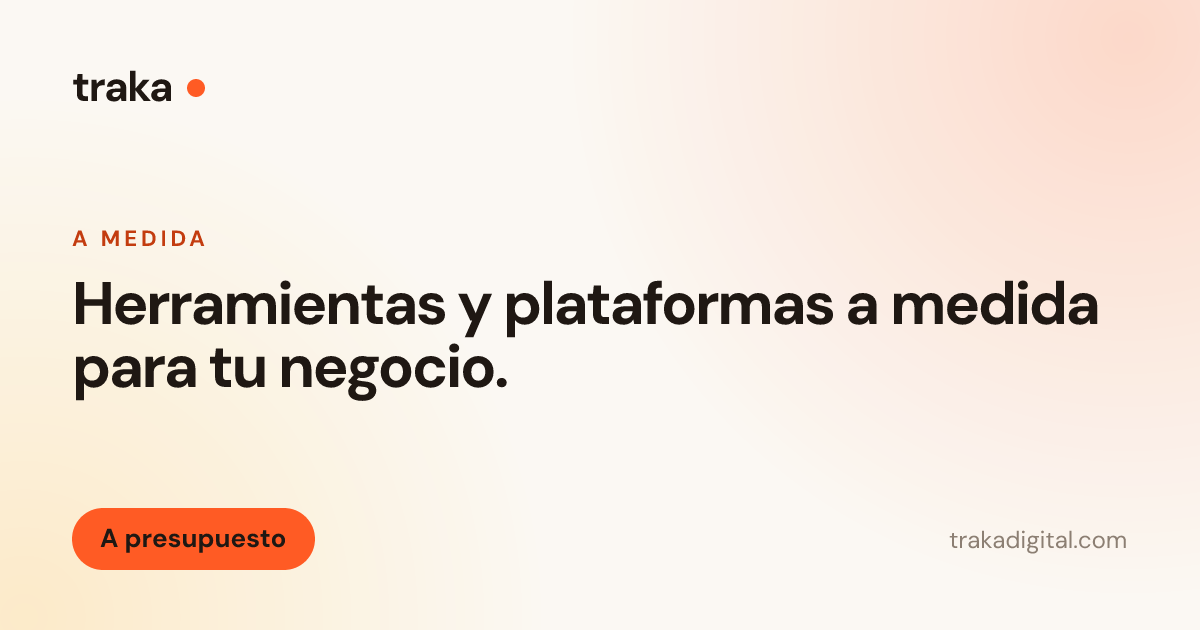
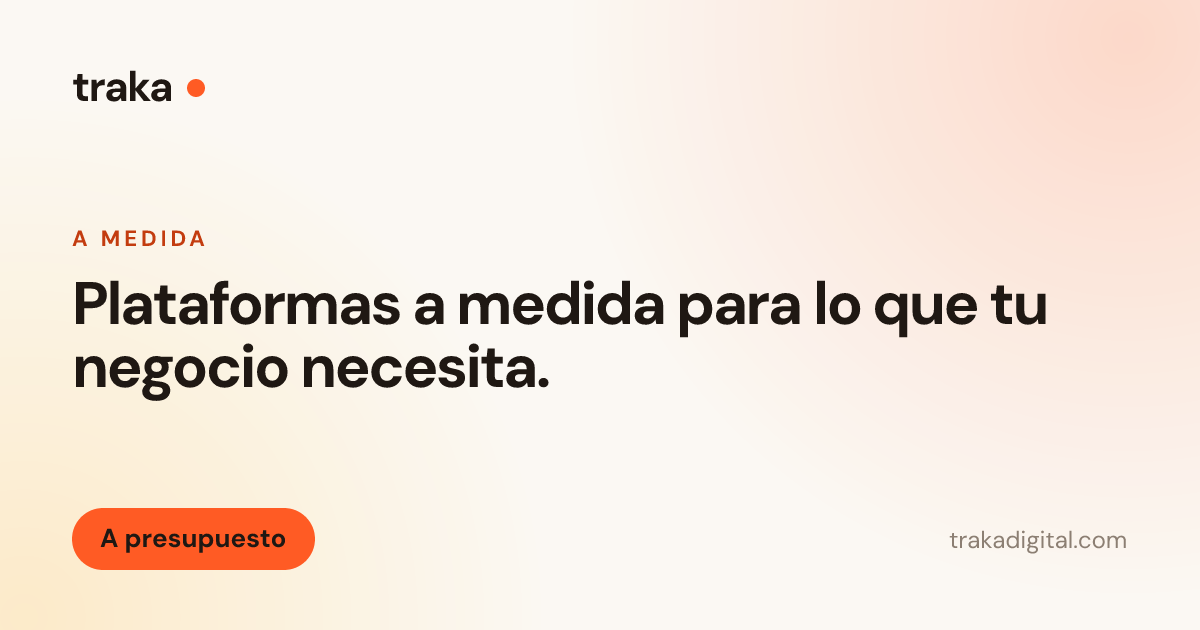
Pasa a cuatro servicios nacionales y separa SEO
Servicios: desarrollo web ($200.000), posicionamiento SEO ($150.000, a
presupuestar), plataformas a medida (a presupuesto) y redes sociales
($100.000). Antes eran tres y el SEO vivía dentro de desarrollo web.

El Perfil de Empresa en Google pasa a SEO, que es donde corresponde: es lo
que te hace aparecer en Google y en Maps. Redes sociales queda para la puesta
a punto de los perfiles. La guía del Perfil de Empresa ahora cuelga de SEO.

Ids de servicio: web, seo, medida, redes. Se actualizan el schema de guías,
el paso "Te encuentran" del recorrido, la variante de maqueta y las imágenes
de Open Graph.

301 a /servicios/plataformas-a-medida/ y /servicios/redes-sociales/ desde las
URLs viejas, con y sin barra final.

Los titles quedan en 42, 44, 46 y 53 caracteres; las descriptions entre 132 y
150. El test de enlaces encontró uno roto en la guía y quedó corregido.

Claude-Session: https://claude.ai/code/session_01HbaX5U69P3fk7ei8MzmTFq

Changed region(s): [[0.0617, 0.4222, 0.925, 0.6333]]

diff --git a/src/site.ts b/src/site.ts
@@ -110,7 +110,7 @@ export const servicios: readonly Servicio[] = [
     featured: true,
     page: '/servicios/desarrollo-web/',
     detalle: {
-      title: 'Desarrollo de páginas web desde $200.000 | Traka',
+      title: 'Diseño y desarrollo web desde $200.000 | Traka',
       description: 'Diseñamos y programamos tu web desde cero, pensada para el celular y con botón de WhatsApp. Desde $200.000 y lista en 3 a 4 semanas.',
       kicker: 'Desarrollo web',
       h1: 'Desarrollo de páginas web que traen consultas.',
@@ -123,8 +123,8 @@ export const servicios: readonly Servicio[] = [
         { t: 'Pensada para el celular', d: 'Se arma primero en pantalla chica, que es por donde te va a entrar casi todo el mundo.', icon: 'ph:device-mobile-bold' },
         { t: 'Textos incluidos', d: 'Escribimos las secciones con vos. No te dejamos un documento vacío para completar.', icon: 'ph:text-aa-bold' },
         { t: 'WhatsApp en cada sección', d: 'Cada botón abre el chat con el mensaje ya escrito según la página donde está.', icon: 'ph:whatsapp-logo-bold' },
-        { t: 'SEO local', d: 'Títulos, descripciones, datos estructurados y tu Perfil de Empresa en Google conectado.', icon: 'ph:magnifying-glass-bold' },
-        { t: 'Medición desde el día uno', d: 'Analytics y Search Console configurados, para ver qué páginas traen consultas.', icon: 'ph:chart-line-up-bold' },
+        { t: 'Carga rápida', d: 'Sin plugins de más ni librerías pesadas: la web abre rápido también con datos del celular.', icon: 'ph:lightning-bold' },
+        { t: 'Medición desde el día uno', d: 'Analytics configurado, para ver qué secciones traen consultas y cuáles no.', icon: 'ph:chart-line-up-bold' },
       ],
       casos: [
         { t: 'No tenés web', d: 'Hoy te encuentran por Instagram o de boca en boca, y se te caen consultas en el camino.' },
@@ -135,64 +135,65 @@ export const servicios: readonly Servicio[] = [
       faqs: [
         { q: '¿Cuánto tarda una web?', a: 'Entre 3 y 4 semanas desde que tenemos el material y el alcance acordado. El plazo queda por escrito antes de empezar.' },
         { q: '¿Qué necesitás de mí?', a: 'Tu logo si lo tenés, fotos de tu negocio y un rato para contarnos cómo trabajás. Si no tenés fotos, lo charlamos antes de arrancar.' },
-        { q: '¿Qué incluye el precio?', a: 'Diseño, desarrollo, textos, el botón de WhatsApp, el SEO local y la medición. Desde $200.000; el precio final depende del alcance y te llega por escrito.' },
+        { q: '¿Qué incluye el precio?', a: 'Diseño, desarrollo, textos, el botón de WhatsApp y la medición. Desde $200.000; el precio final depende del alcance y te llega por escrito.' },
+        { q: '¿El posicionamiento en Google va aparte?', a: 'Sí. La web sale bien armada y rápida, que es la base, pero trabajar el posicionamiento es otro servicio: lo ves en posicionamiento SEO.' },
         { q: '¿Hacen tiendas online?', a: 'No. Hacemos webs simples que traen consultas: quién sos, qué hacés, dónde estás y cómo escribirte.' },
         { q: '¿La web es mía?', a: 'Sí. El material que creamos para vos queda a tu nombre una vez cancelado el trabajo.' },
-        { q: '¿Y después de publicarla?', a: 'La dejamos publicada y midiendo, y te mostramos los números. Si querés que la sigamos manteniendo, lo charlamos aparte.' },
       ],
     },
   },
   {
-    id: 'google',
-    name: 'Google y redes sociales',
-    price: 'Desde $100.000',
-    summary: 'Mejora y optimización de tu Perfil de Empresa en Google (Google My Business) y de tus redes.',
+    id: 'seo',
+    name: 'Posicionamiento SEO',
+    price: 'Desde $150.000',
+    priceNote: 'Se presupuesta con cada cliente según el rubro y la competencia que haya.',
+    summary: 'Que aparezcas cuando alguien busca lo que hacés, en Google y en Maps.',
     items: [
+      'Búsquedas por las que te conviene aparecer',
       'Perfil de Empresa en Google optimizado',
-      'Fotos, horarios y servicios al día',
-      'Plan de reseñas',
-      'Puesta a punto de tus redes',
+      'SEO técnico y contenido de la web',
+      'Informe de lo que entra, con números',
     ],
-    cta: 'Quiero mejorar mi Google',
-    message: 'Hola, quiero mejorar mi Perfil de Empresa en Google y mis redes. Vi que arranca en $100.000.',
-    icon: 'ph:map-pin-bold',
-    page: '/servicios/google-y-redes/',
+    cta: 'Quiero aparecer en Google',
+    message: 'Hola, quiero trabajar el posicionamiento en Google de mi negocio. Vi que arranca en $150.000.',
+    icon: 'ph:magnifying-glass-bold',
+    page: '/servicios/posicionamiento-seo/',
     detalle: {
-      title: 'Perfil de Empresa en Google desde $100.000 | Traka',
-      description: 'Optimizamos tu Perfil de Empresa en Google (Google My Business) y tus redes para que aparezcas en Maps y te escriban. Desde $100.000, en unos 10 días.',
-      kicker: 'Google y redes',
-      h1: 'Perfil de Empresa en Google: que te encuentren en Maps.',
-      intro: 'Ponemos tu ficha de Google como corresponde y dejamos tus redes diciendo qué hacés y cómo contactarte. Es lo más rápido que podés hacer para que te lleguen consultas.',
-      plazo: 'Unos 10 días',
-      alcance: 'Perfil + redes',
-      precioNota: 'El precio depende de cuántas sucursales y redes haya que poner a punto, y de si la ficha existe o hay que crearla y verificarla desde cero.',
+      title: 'Posicionamiento SEO desde $150.000 | Traka',
+      description: 'Trabajamos tu posicionamiento en Google y en Maps: búsquedas, SEO técnico, contenido y Perfil de Empresa. Desde $150.000, con informe de lo que entra.',
+      kicker: 'Posicionamiento SEO',
+      h1: 'Posicionamiento SEO: que te encuentren cuando te buscan.',
+      intro: 'Primero vemos por qué búsquedas te conviene aparecer y cómo estás hoy. Después trabajamos la web, tu Perfil de Empresa en Google y el contenido, y te mostramos qué cambia con números.',
+      plazo: 'Primeros cambios en 30 días',
+      alcance: 'Web + Perfil de Empresa',
+      precioNota: 'El SEO se presupuesta con cada cliente: depende del rubro, de la competencia que tengas en tu zona y de cómo esté la web hoy. Arranca en $150.000 y lo cerramos antes de empezar.',
       incluye: [
-        { t: 'Ficha completa y verificada', d: 'Categorías, servicios, zona de cobertura, horarios y datos de contacto, cargados como Google los pide.', icon: 'ph:seal-check-bold' },
-        { t: 'Fotos y publicaciones', d: 'Dejamos la ficha con fotos ordenadas y publicaciones cargadas, no vacía.', icon: 'ph:image-square-bold' },
+        { t: 'Las búsquedas que importan', d: 'Qué escribe la gente para encontrar lo que hacés, y cuáles de esas búsquedas te pueden traer consultas de verdad.', icon: 'ph:magnifying-glass-bold' },
+        { t: 'SEO técnico', d: 'Títulos, descripciones, encabezados, datos estructurados, sitemap y velocidad de carga.', icon: 'ph:wrench-bold' },
+        { t: 'Perfil de Empresa en Google', d: 'Categorías, servicios, zona de cobertura, horarios y fotos, cargados como Google los pide, para aparecer en Maps.', icon: 'ph:map-pin-bold' },
         { t: 'Plan de reseñas', d: 'Un sistema simple para pedirlas después de cada trabajo y un criterio para responderlas todas.', icon: 'ph:star-bold' },
-        { t: 'Preguntas y respuestas', d: 'Cargamos las dudas que ya te hacen, para que la ficha las conteste sola.', icon: 'ph:question-bold' },
-        { t: 'Puesta a punto de tus redes', d: 'Bio, enlaces, destacados y datos de contacto, alineados con lo que dice la web.', icon: 'ph:instagram-logo-bold' },
-        { t: 'Informe de lo que entra', d: 'Qué buscó la gente, cuántos pidieron cómo llegar y cuántos te escribieron.', icon: 'ph:chart-bar-bold' },
+        { t: 'Contenido que responde dudas', d: 'Las preguntas que ya te hacen, escritas en la web, que es lo que Google busca para mostrarte.', icon: 'ph:text-aa-bold' },
+        { t: 'Informe con números', d: 'Search Console y Analytics configurados: qué buscó la gente, qué páginas aparecen y cuántos escribieron.', icon: 'ph:chart-bar-bold' },
       ],
       casos: [
-        { t: 'No aparecés en Maps', d: 'Buscan tu rubro cerca y aparecen todos menos vos.' },
-        { t: 'Tu ficha tiene datos viejos', d: 'Horarios que ya no son, un teléfono que no atendés o fotos de hace años.' },
-        { t: 'Tenés reseñas sin responder', d: 'Las buenas sin agradecer y las malas sin contestar, que es lo que más mira la gente.' },
-        { t: 'Tus redes no dicen qué hacés', d: 'Entran al perfil y no entienden a qué te dedicás ni cómo escribirte.' },
+        { t: 'No aparecés cuando te buscan', d: 'Buscan tu rubro en tu zona y aparecen todos menos vos.' },
+        { t: 'Tenés web pero no entra nadie', d: 'La web está linda y publicada, pero no llega gente desde Google.' },
+        { t: 'No estás en Maps', d: 'Tu negocio no figura en el mapa, o figura con datos que ya no son.' },
+        { t: 'Te hicieron SEO y no viste nada', d: 'Pagaste y nunca te mostraron un número. Acá el informe es parte del trabajo.' },
       ],
       faqs: [
-        { q: '¿Qué es el Perfil de Empresa en Google?', a: 'Es la ficha que aparece en Google y en Maps cuando alguien busca tu negocio o tu rubro: dirección, horarios, fotos, reseñas y botón para llamarte. Antes se llamaba Google Mi Negocio.' },
-        { q: '¿Me garantizan aparecer primero?', a: 'No, y desconfiá de quien te lo prometa. Lo que hacemos es que tu ficha esté completa y activa, que es lo que Google mira, y te mostramos qué cambió con datos.' },
-        { q: '¿Cuánto tarda?', a: 'Unos 10 días. Si la ficha no existe todavía, hay que esperar a que Google la verifique, y ese plazo lo maneja Google.' },
-        { q: '¿Necesito un local a la calle?', a: 'No necesariamente. Google también admite negocios que atienden a domicilio o en una zona: en ese caso se configura como área de cobertura en vez de dirección.' },
-        { q: '¿Me manejan las redes todos los meses?', a: 'Esto es la puesta a punto, no la gestión mensual. Si querés que publiquemos todos los meses, lo charlamos aparte.' },
-        { q: '¿Sirve si ya tengo la ficha creada?', a: 'Sí. En general el problema no es que no exista, sino que está a medio cargar. Revisamos todo y completamos lo que falta.' },
+        { q: '¿Me garantizan el primer puesto?', a: 'No, y desconfiá de quien te lo prometa: el orden lo decide Google. Lo que hacemos es trabajar todo lo que sí está en nuestras manos y mostrarte con datos qué se movió.' },
+        { q: '¿Cuánto tarda en verse?', a: 'Los primeros cambios técnicos se ven en unos 30 días. Posicionar una búsqueda con competencia lleva más: lo charlamos al presupuestar, con lo que vemos de tu rubro.' },
+        { q: '¿Cuánto sale?', a: 'Arranca en $150.000 y se presupuesta con cada cliente, porque depende del rubro, de la competencia de tu zona y de cómo esté la web hoy.' },
+        { q: '¿Sirve si no tengo web?', a: 'Se puede trabajar el Perfil de Empresa en Google sin web, y ya es un salto. Pero para posicionar en serio conviene tener una: lo vemos juntos antes de arrancar.' },
+        { q: '¿Qué es el Perfil de Empresa en Google?', a: 'Es la ficha que aparece en Google y en Maps cuando alguien busca tu negocio o tu rubro: dirección, horarios, fotos, reseñas y botón para escribirte. Antes se llamaba Google Mi Negocio.' },
+        { q: '¿Es un pago único o mensual?', a: 'Hay un trabajo inicial, que es el que arranca en $150.000, y después podés seguir con un acompañamiento mensual. Lo segundo es opcional y se charla aparte.' },
       ],
     },
   },
   {
     id: 'medida',
-    name: 'Herramientas y plataformas a medida',
+    name: 'Plataformas a medida',
     price: 'A presupuesto',
     priceNote: 'Depende del tamaño y del tiempo que lleve hacerlo, por eso lo charlamos antes.',
     summary: 'Sistemas internos, paneles y plataformas propias para lo que tu negocio necesita.',
@@ -203,38 +204,87 @@ export const servicios: readonly Servicio[] = [
       'Soporte después de entregar',
     ],
     cta: 'Pedir presupuesto',
-    message: 'Hola, necesito una herramienta o plataforma a medida y quiero pedir un presupuesto.',
+    message: 'Hola, necesito una plataforma a medida y quiero pedir un presupuesto.',
     icon: 'ph:squares-four-bold',
-    page: '/servicios/herramientas-a-medida/',
+    page: '/servicios/plataformas-a-medida/',
     detalle: {
-      title: 'Herramientas y plataformas a medida | Traka',
+      title: 'Plataformas a medida para tu negocio | Traka',
       description: 'Sistemas internos, paneles y plataformas propias para lo que tu negocio necesita. Relevamiento, presupuesto cerrado y soporte después de entregar.',
       kicker: 'A medida',
-      h1: 'Herramientas y plataformas a medida para tu negocio.',
-      intro: 'Cuando ningún sistema de los que se compran hace lo que necesitás, lo construimos. Primero entendemos cómo trabajás, después te pasamos un presupuesto cerrado.',
+      h1: 'Plataformas a medida para lo que tu negocio necesita.',
+      intro: 'Cuando la planilla ya no alcanza y ningún sistema del mercado hace exactamente lo que hacés, lo construimos. Primero entendemos tu trabajo, después lo programamos.',
       plazo: 'Según el alcance',
-      alcance: 'A medida',
-      precioNota: 'No hay un precio de lista porque no hay dos negocios iguales. Hacemos un relevamiento, te pasamos el alcance y el precio por escrito, y recién ahí decidís.',
+      alcance: 'A definir juntos',
+      precioNota: 'No hay precio de lista porque no hay dos plataformas iguales. Relevamos cómo trabajás, te damos un presupuesto cerrado y recién entonces se arranca.',
       incluye: [
-        { t: 'Relevamiento de cómo trabajás', d: 'Vemos tu circuito real: qué cargás, dónde se traba y qué estás haciendo dos veces.', icon: 'ph:clipboard-text-bold' },
-        { t: 'Alcance y precio por escrito', d: 'Antes de escribir una línea de código sabés qué se hace, en cuánto tiempo y cuánto cuesta.', icon: 'ph:file-text-bold' },
-        { t: 'Desarrollo a medida', d: 'Solo lo que necesitás, sin módulos que nunca vas a abrir.', icon: 'ph:code-bold' },
-        { t: 'Puesta en marcha con tu equipo', d: 'Lo dejamos funcionando y mostramos cómo se usa a quien lo va a usar todos los días.', icon: 'ph:users-three-bold' },
-        { t: 'Soporte después de entregar', d: 'No desaparecemos el día de la entrega: quedamos para los ajustes que aparezcan.', icon: 'ph:lifebuoy-bold' },
-        { t: 'Acceso desde el celular', d: 'Pensado para usarse donde está el trabajo, no solo sentado frente a una computadora.', icon: 'ph:device-mobile-bold' },
+        { t: 'Relevamiento primero', d: 'Nos sentamos a ver cómo trabajás hoy, paso por paso, antes de proponer nada.', icon: 'ph:clipboard-text-bold' },
+        { t: 'Presupuesto cerrado', d: 'Alcance, plazo y precio por escrito antes de escribir la primera línea de código.', icon: 'ph:file-text-bold' },
+        { t: 'Desarrollo a medida', d: 'Se construye para tu forma de trabajar, no al revés.', icon: 'ph:code-bold' },
+        { t: 'Entrada por usuario', d: 'Cada persona entra con su cuenta y ve lo que le toca ver.', icon: 'ph:users-bold' },
+        { t: 'Entrega en etapas', d: 'Lo vas viendo funcionar mientras se hace, no al final de todo.', icon: 'ph:steps-bold' },
+        { t: 'Soporte después', d: 'Queda andando y acompañado. Si algo falla, hay alguien que responde.', icon: 'ph:lifebuoy-bold' },
       ],
       casos: [
-        { t: 'Llevás el negocio en planillas', d: 'Funciona hasta que son varias, cada uno tiene la suya y ya nadie sabe cuál es la buena.' },
-        { t: 'Cargás los mismos datos dos veces', d: 'Una en el cuaderno, otra en el sistema, y a veces una tercera en el chat.' },
-        { t: 'No ves cómo va el negocio', d: 'Para saber cómo cerró el mes hay que sentarse a sumar a mano.' },
-        { t: 'Compraste un sistema que no encaja', d: 'Pagás todos los meses por algo que hace la mitad de lo que necesitás.' },
+        { t: 'Vivís en planillas', d: 'Tenés diez archivos que nadie más entiende y se rompen cuando los toca otra persona.' },
+        { t: 'Ningún sistema te sirve', d: 'Probaste herramientas del mercado y ninguna hace exactamente lo que hacés.' },
+        { t: 'Cargás lo mismo dos veces', d: 'El mismo dato va a mano a dos lugares distintos, y alguna vez no coincide.' },
+        { t: 'No sabés en qué estás', d: 'Para saber cómo viene el mes hay que sentarse a sumar a mano.' },
       ],
       faqs: [
-        { q: '¿Por qué no hay precio de lista?', a: 'Porque depende del tamaño y del tiempo que lleve hacerlo. Hacemos el relevamiento, te pasamos el presupuesto cerrado por escrito y decidís con el número delante.' },
-        { q: '¿Cómo arranca?', a: 'Con una charla para entender cómo trabajás hoy. De ahí sale el alcance, el plazo y el precio. Recién cuando lo aceptás empieza el desarrollo.' },
-        { q: '¿El sistema es mío?', a: 'Sí. Lo que desarrollamos para vos queda a tu nombre una vez cancelado el trabajo.' },
-        { q: '¿Y si después necesito cambios?', a: 'Es lo normal: cuando lo empezás a usar aparecen ideas. Los ajustes se presupuestan aparte, con el mismo criterio.' },
-        { q: '¿Trabajan sobre lo que ya tengo?', a: 'Puede ser. Si ya tenés un sistema o planillas armadas, lo miramos en el relevamiento y te decimos si conviene aprovecharlo o empezar de nuevo.' },
+        { q: '¿Cuánto sale una plataforma?', a: 'No hay precio de lista: depende del tamaño y del tiempo que lleve. Relevamos cómo trabajás y te damos un presupuesto cerrado antes de arrancar.' },
+        { q: '¿Cuánto tarda?', a: 'Según el alcance. Lo partimos en etapas y vas viendo funcionar cada una, con los plazos por escrito.' },
+        { q: '¿Y si necesito cambios después?', a: 'Se pueden hacer. Los cambios chicos entran en el soporte; si es algo grande, se presupuesta aparte.' },
+        { q: '¿La plataforma es mía?', a: 'Sí. Lo que construimos para vos queda a tu nombre una vez cancelado el trabajo.' },
+        { q: '¿Se puede conectar con lo que ya uso?', a: 'En general sí, si la otra herramienta lo permite. Es una de las primeras cosas que miramos en el relevamiento.' },
+        { q: '¿Sirve para un negocio chico?', a: 'Sí. No se trata del tamaño, sino de si tenés un proceso propio que ninguna herramienta cubre.' },
+      ],
+    },
+  },
+  {
+    id: 'redes',
+    name: 'Redes sociales',
+    price: 'Desde $100.000',
+    summary: 'Tus redes diciendo qué hacés, cómo contactarte y por qué elegirte.',
+    items: [
+      'Bio, enlaces y destacados al día',
+      'Identidad visual aplicada',
+      'Plantillas para que sigas vos',
+      'Alineado con lo que dice tu web',
+    ],
+    cta: 'Quiero ordenar mis redes',
+    message: 'Hola, quiero poner a punto las redes de mi negocio. Vi que arranca en $100.000.',
+    icon: 'ph:instagram-logo-bold',
+    page: '/servicios/redes-sociales/',
+    detalle: {
+      title: 'Redes sociales para tu negocio desde $100.000 | Traka',
+      description: 'Ponemos a punto tus redes: bio, enlaces, destacados, identidad visual y plantillas para que sigas vos. Desde $100.000, en unos 10 días.',
+      kicker: 'Redes sociales',
+      h1: 'Redes que dicen qué hacés y cómo escribirte.',
+      intro: 'Mucha gente te va a buscar primero en Instagram. Dejamos tu perfil diciendo a qué te dedicás, dónde estás y cómo contactarte, con la misma identidad que tu web.',
+      plazo: 'Unos 10 días',
+      alcance: 'Puesta a punto',
+      precioNota: 'El precio depende de cuántas redes haya que poner a punto y de cuánto material tengas listo. Esto es la puesta a punto, no la gestión mensual.',
+      incluye: [
+        { t: 'Bio y enlaces', d: 'Qué hacés, dónde estás y un enlace que lleve a donde querés que vayan.', icon: 'ph:link-bold' },
+        { t: 'Destacados ordenados', d: 'Las dudas de siempre y lo que más vendés, a un toque y con portada propia.', icon: 'ph:bookmark-bold' },
+        { t: 'Identidad aplicada', d: 'Los colores y la tipografía de tu marca, los mismos de la web, puestos en el perfil.', icon: 'ph:palette-bold' },
+        { t: 'Plantillas para seguir vos', d: 'Te dejamos piezas armadas y editables, para que publicar no dependa de nosotros.', icon: 'ph:layout-bold' },
+        { t: 'Datos de contacto', d: 'Botones de WhatsApp y de ubicación configurados, para que te escriban desde ahí.', icon: 'ph:whatsapp-logo-bold' },
+        { t: 'Alineado con la web', d: 'Lo que dice el perfil y lo que dice la web cuentan la misma historia.', icon: 'ph:arrows-left-right-bold' },
+      ],
+      casos: [
+        { t: 'Tu perfil no dice qué hacés', d: 'Entran, leen la bio y se van sin entender a qué te dedicás.' },
+        { t: 'No hay por dónde escribirte', d: 'Tienen que preguntar por mensaje privado porque no hay botón ni enlace.' },
+        { t: 'Cada posteo parece de otra marca', d: 'Colores y tipografías distintas en cada pieza, sin un criterio que se repita.' },
+        { t: 'No sabés qué publicar', d: 'Querés mantenerlo vivo pero cada vez arrancás de cero.' },
+      ],
+      faqs: [
+        { q: '¿Me manejan las redes todos los meses?', a: 'Esto es la puesta a punto, no la gestión mensual. Si querés que publiquemos todos los meses, lo charlamos aparte.' },
+        { q: '¿Qué redes incluye?', a: 'Normalmente Instagram y Facebook, que son las que más usan los negocios con los que trabajamos. Si usás otra, decinos y lo vemos.' },
+        { q: '¿Necesito tener fotos?', a: 'Ayuda mucho. Si no tenés, lo charlamos antes de arrancar y vemos cómo resolverlo.' },
+        { q: '¿Y el Perfil de Empresa en Google?', a: 'Ese va en posicionamiento SEO, porque es lo que te hace aparecer en Google y en Maps. Son dos cosas distintas y se pueden hacer juntas.' },
+        { q: '¿Cuánto tarda?', a: 'Unos 10 días desde que tenemos el material. Si hay que crear perfiles desde cero, puede llevar un poco más.' },
+        { q: '¿Qué me queda al terminar?', a: 'El perfil puesto a punto y las plantillas editables, para que puedas seguir publicando vos.' },
       ],
     },
   },
@@ -295,7 +345,7 @@ export const pasos = [
   {
     n: '01',
     t: 'Te encuentran',
-    servicio: 'google',
+    servicio: 'seo',
     d: 'Alguien busca lo que hacés. Aparecés en Google, en Maps y en tu Perfil de Empresa, con horarios, fotos y reseñas al día.',
     tags: ['Google', 'Maps', 'Perfil de Empresa'],
     icon: 'ph:magnifying-glass-bold',

diff --git a/src/content.config.ts b/src/content.config.ts
@@ -19,7 +19,7 @@ const guias = defineCollection({
     faqs: z.array(z.object({ q: z.string(), a: z.string() })).default([]),
     /** Temas de la guía, para articleSection y keywords. */
     temas: z.array(z.string()).default([]),
-    servicio: z.enum(['web', 'google', 'medida']).optional(),
+    servicio: z.enum(['web', 'seo', 'medida', 'redes']).optional(),
     destacada: z.boolean().default(false),
   }),
 });

diff --git a/src/content/guias/perfil-de-empresa-en-google.md b/src/content/guias/perfil-de-empresa-en-google.md
@@ -6,7 +6,7 @@ kicker: "Google y Maps"
 resumen: "La ficha de Google es, para la mayoría de los comercios, la primera impresión. Esta es la lista de lo que hay que completar y en qué orden."
 fecha: 2026-11-03
 lectura: 8
-servicio: google
+servicio: seo
 destacada: true
 clave:
   - "La categoría principal es el campo que más decide en qué búsquedas aparecés."
@@ -37,7 +37,7 @@ Entrá a Google con la cuenta que vaya a quedar como dueña —usá una cuenta d
 
 > Si el negocio atiende a domicilio o en una zona, no hace falta mostrar una dirección: se configura como área de cobertura.
 
-Si preferís no hacerlo vos, esto es exactamente lo que incluye nuestro servicio de [Perfil de Empresa en Google y redes](/servicios/google-y-redes/).
+Si preferís no hacerlo vos, el Perfil de Empresa entra en nuestro servicio de [posicionamiento SEO](/servicios/posicionamiento-seo/).
 
 ## 2. Elegí bien la categoría principal
 
